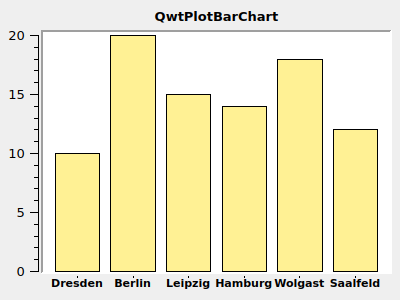
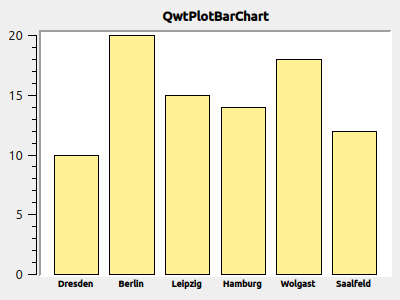
More balken diagramm stuff

Changed region(s): [[0.0, 0.09, 0.96, 0.96], [0.39, 0.03, 0.69, 0.09], [0.03, 0.09, 0.06, 0.15]]

diff --git a/code/tutorialMulitColorBarChart/main.cpp b/code/tutorialMulitColorBarChart/main.cpp
@@ -64,33 +64,26 @@ THE SOFTWARE.
 
 class MultiColorBarChart : public QwtPlotBarChart {
 public:
-	MultiColorBarChart() : QwtPlotBarChart( "Popular Cities" ) {
+	MultiColorBarChart() {
+		setLayoutPolicy(QwtPlotBarChart::ScaleSamplesToAxes);
+		setLayoutHint(0.8);
+		// Legende zeigt individuelle Balkentitel
 		setLegendMode( QwtPlotBarChart::LegendBarTitles );
 		setLegendIconSize( QSize( 10, 14 ) );
-		setLayoutPolicy( AutoAdjustSamples );
-		setLayoutHint( 4.0 ); // minimum width for a single bar
-
-		setSpacing( 10 ); // spacing between bars
 	}
 
-	void addBar( double value, const QString& title, const QColor& color ) {
-		m_samples += value;
-		m_titles += title;
-		m_colors += color;
-		setSamples(m_samples); // this will trigger a redraw
-	}
-
-	virtual QwtColumnSymbol* specialSymbol(int index, const QPointF& ) const QWT_OVERRIDE {
-		// we want to have individual colors for each bar
-
+	// we want to have individual colors for each bar
+	virtual QwtColumnSymbol* specialSymbol(
+		int sampleIndex, const QPointF&) const QWT_OVERRIDE
+	{
+		// generate symbol with color for each bar
 		QwtColumnSymbol* symbol = new QwtColumnSymbol( QwtColumnSymbol::Box );
 		symbol->setLineWidth( 2 );
 		symbol->setFrameStyle( QwtColumnSymbol::Raised );
 
 		QColor c( Qt::white );
-		if ( index >= 0 && index < m_colors.size() )
-			c = m_colors[ index ];
-
+		if ( sampleIndex >= 0 && sampleIndex < m_colors.size() )
+			c = m_colors[ sampleIndex ];
 		symbol->setPalette( c );
 
 		return symbol;
@@ -102,30 +95,9 @@ public:
 		return QwtText();
 	}
 
-	QVector<double>		m_samples;
-	QVector<QString>	m_titles;
-	QVector<QColor>		m_colors;
+	QStringList	  m_titles;
+	QList<QColor> m_colors;
 };
-
-
-class ScaleDraw : public QwtScaleDraw {
-public:
-	ScaleDraw(const QStringList& labels ) : m_labels( labels ) {
-		enableComponent( QwtScaleDraw::Ticks, false );
-		enableComponent( QwtScaleDraw::Backbone, false );
-		setLabelAlignment( Qt::AlignHCenter | Qt::AlignVCenter );
-	}
-
-	virtual QwtText label( double value ) const QWT_OVERRIDE {
-		const int index = qRound( value );
-		if ( index >= 0 && index < m_labels.size() && qAbs(index-value) < 1e-6)
-			return m_labels[index];
-		return QwtText();
-	}
-
-	QStringList m_labels;
-};
-
 
 int main(int argc, char *argv[]) {
 	QApplication a(argc, argv);
@@ -138,7 +110,7 @@ int main(int argc, char *argv[]) {
 	// Hintergrund der Zeichenfläche soll weiß sein
 	plot.setCanvasBackground( Qt::white );
 
-	// Daten zum Darstellen einlesen
+	// Daten zum Darstellen
 	const struct
 	{
 		const double popularity;
@@ -147,7 +119,7 @@ int main(int argc, char *argv[]) {
 	}
 	cityPop[] =
 	{
-	{ 10, "Dresden", QColor(0xf19624) },
+		{ 10, "Dresden", QColor(0xf19624) },
 		{ 20, "Berlin", QColor(0x0081a6) },
 		{ 15, "Leipzig", QColor(0xdceb54) },
 		{ 14, "Hamburg", QColor(0x00a668) },
@@ -155,35 +127,21 @@ int main(int argc, char *argv[]) {
 		{ 12, "Saalfeld", QColor(0x912415) }
 	};
 	MultiColorBarChart * curve = new MultiColorBarChart;
-	for (auto barData : cityPop)
-		curve->addBar(barData.popularity, barData.name, barData.color);
-//	curve->setLayoutPolicy(QwtPlotBarChart::AutoAdjustSamples);
-//	curve->setLayoutHint(10);
-	curve->setLayoutPolicy(QwtPlotBarChart::ScaleSamplesToAxes);
-	curve->setLayoutHint(0.8);
-//	curve->setLayoutPolicy(QwtPlotBarChart::ScaleSampleToCanvas);
-//	curve->setLayoutHint(0.1); // bar width 10% of canvas width
-
-//	curve->setSpacing(40);
-//	curve->setBaseline(15);
-
-	// QwtColumnSymbol* symbol = new QwtColumnSymbol( QwtColumnSymbol::Box );
-	// symbol->setFrameStyle(QwtColumnSymbol::Plain);
-	// symbol->setLineWidth(1);
-	// QPalette palette(QColor(0xfff194));
-	// palette.setBrush(QPalette::Dark, Qt::black); // black frame
-	// symbol->setPalette(palette);
-
-	// curve->setSymbol( symbol );
-
-	curve->attach(&plot); // Plot takes ownership
+	QVector<double>		samples;
+	for (auto barData : cityPop) {
+		samples += barData.popularity;
+		curve->m_titles += barData.name;
+		curve->m_colors += barData.color;
+	}
+	curve->setSamples(samples);
+	curve->attach(&plot); // plot takes ownership
 
 	// Legende anzeigen
 	QwtLegend * legend = new QwtLegend();
 	QFont legendFont;
 	legendFont.setPointSize(7);
 	legend->setFont(legendFont);
-	plot.insertLegend( legend , QwtPlot::RightLegend); // plot takes ownership
+	plot.insertLegend(legend, QwtPlot::RightLegend); // plot takes ownership
 
 	// Titel hinzufügen
 	QwtText text("Multi-colored QwtPlotBarChart");
@@ -193,82 +151,20 @@ int main(int argc, char *argv[]) {
 	text.setFont(titleFont);
 	plot.setTitle(text);
 
-
-//	QwtScaleDraw* scaleDraw1 = plot.axisScaleDraw( QwtPlot::xBottom );
-//	scaleDraw1->enableComponent( QwtScaleDraw::Backbone, false );
-//	scaleDraw1->enableComponent( QwtScaleDraw::Ticks, false );
-
-	QwtScaleDraw * scaleDraw = new ScaleDraw(QStringList(curve->m_titles.constBegin(), curve->m_titles.constEnd()));
-	QFont f;
-	f.setPointSize(7);
-	f.setBold(true);
-	plot.setAxisFont(QwtPlot::xBottom, f);
-	plot.setAxisScaleDraw(QwtPlot::xBottom, scaleDraw);
-
 	curve->setMargin(10); // margin left/right of bars
+	plot.setAxisVisible(QwtPlot::xBottom, false);
 	plot.plotLayout()->setCanvasMargin( 0 ); // canvas margin all around
 	plot.plotLayout()->setAlignCanvasToScale( QwtPlot::yLeft, false); // do not fix y-axis at 0 and left edge of canvas
 	plot.updateCanvasMargins();
-
-
-
-//	// Haupt- und Nebengitter anzeigen
-//	QwtPlotGrid *grid = new QwtPlotGrid();
-//	QPen gridPen(Qt::gray);
-//	gridPen.setStyle(Qt::DashLine);
-//	grid->setMajorPen(gridPen);
-//	// Minor grid
-//	grid->enableYMin( true );
-//	gridPen.setColor(Qt::lightGray);
-//	gridPen.setStyle(Qt::DotLine);
-//	grid->setMinorPen(gridPen);
-//	grid->attach( &plot ); // plot takes ownership
-
-
-//	// Achsen formatieren
-//	QFont axisFont;
-//	axisFont.setPointSize(8);
-//	axisFont.setBold(true);
-//	QFont axisLabelFont;
-//	axisLabelFont.setPointSize(8);
-//	// X-Achse
-//	QwtText axisTitle("Kanal");
-//	axisTitle.setFont(axisFont);
-//	// Titel Text und Font setzen
-//	plot.setAxisTitle(QwtPlot::xBottom, axisTitle);
-//	// Font für Achsenzahlen setzen
-//	plot.setAxisFont(QwtPlot::xBottom, axisLabelFont);
-//	// Y-Achse
-//	axisTitle.setText("Ereignisse");
-//	plot.setAxisTitle(QwtPlot::yLeft, axisTitle);
-//	plot.setAxisFont(QwtPlot::yLeft, axisLabelFont);
-
-//	// Logarithmische Y-Achse
-//	QwtLogScaleEngine * logScale = new QwtLogScaleEngine();
-//	plot.setAxisScaleEngine(QwtPlot::yLeft, logScale); // plot takes ownership
-//	// manuelle Achsenlimits festlegen, da autoscale bei log-Achsen nicht sinnvoll funktioniert
-//	plot.setAxisScale(QwtPlot::yLeft, 1e-3,1000);
-
-//	// Vertikale, gestrichelte Plot-Markierung einfügen
-//	QwtPlotMarker * marker = new QwtPlotMarker("207,50 keV");
-//	marker->setLabelOrientation(Qt::Vertical); // Vertikale Linie
-//	marker->setLabelAlignment(Qt::AlignRight | Qt::AlignBottom); // Label unten und rechts von der Linie
-//	marker->setValue(36, 0); // bei vertikalen Linien muss die x-Koordinate festgelegt werden
-//	QPen markerPen(QColor(40,60,255));
-//	markerPen.setStyle(Qt::SolidLine);
-//	marker->setLinePen(markerPen);
-//	marker->setLineStyle(QwtPlotMarker::VLine);
-//	marker->setLabel(QwtText("207,50 keV"));
-//	marker->attach(&plot); // plot takes ownership
 
 	// Zoomer hinzufügen
 	// Achtung: NICHT QwtPlot selbst als 3 Argument übergeben, sonder das canvas()
 	QwtPlotZoomer * zoomer = new QwtPlotZoomer(QwtPlot::xBottom, QwtPlot::yLeft, plot.canvas());  // plot takes ownership
 	zoomer->setTrackerMode( QwtPlotPicker::AlwaysOn ); // Kurvenvwerte unterm Cursor anzeigen
 
-//	// Panner hinzufügen, wie auch beim PlotZoomer muss das Canvas-Objekt als Argument übergeben werden
-//	QwtPlotPanner * panner = new QwtPlotPanner(plot.canvas());  // plot takes ownership
-//	panner->setMouseButton(Qt::MidButton); // Mittlere Maustaste verschiebt
+	// Panner hinzufügen, wie auch beim PlotZoomer muss das Canvas-Objekt als Argument übergeben werden
+	QwtPlotPanner * panner = new QwtPlotPanner(plot.canvas());  // plot takes ownership
+	panner->setMouseButton(Qt::MidButton); // Mittlere Maustaste verschiebt
 
 	plot.show();
 	return a.exec();

diff --git a/code/tutorialBarChart/main.cpp b/code/tutorialBarChart/main.cpp
@@ -65,9 +65,6 @@ THE SOFTWARE.
 class ScaleDraw : public QwtScaleDraw {
 public:
 	ScaleDraw(const QStringList& labels ) : m_labels( labels ) {
-		setTickLength( QwtScaleDiv::MinorTick, 0 );
-		setTickLength( QwtScaleDiv::MediumTick, 0 );
-		setTickLength( QwtScaleDiv::MajorTick, 2 );
 		enableComponent( QwtScaleDraw::Ticks, false );
 		enableComponent( QwtScaleDraw::Backbone, false );
 		setLabelAlignment( Qt::AlignHCenter | Qt::AlignVCenter );
@@ -142,7 +139,7 @@ int main(int argc, char *argv[]) {
 
 	QwtScaleDraw * scaleDraw = new ScaleDraw(QStringList() << "Dresden" << "Berlin" << "Leipzig" << "Hamburg" << "Wolgast" << "Saalfeld");
 	QFont f;
-	f.setPointSize(8);
+	f.setPointSize(7);
 	f.setBold(true);
 	plot.setAxisFont(QwtPlot::xBottom, f);
 	plot.setAxisScaleDraw(QwtPlot::xBottom, scaleDraw);
